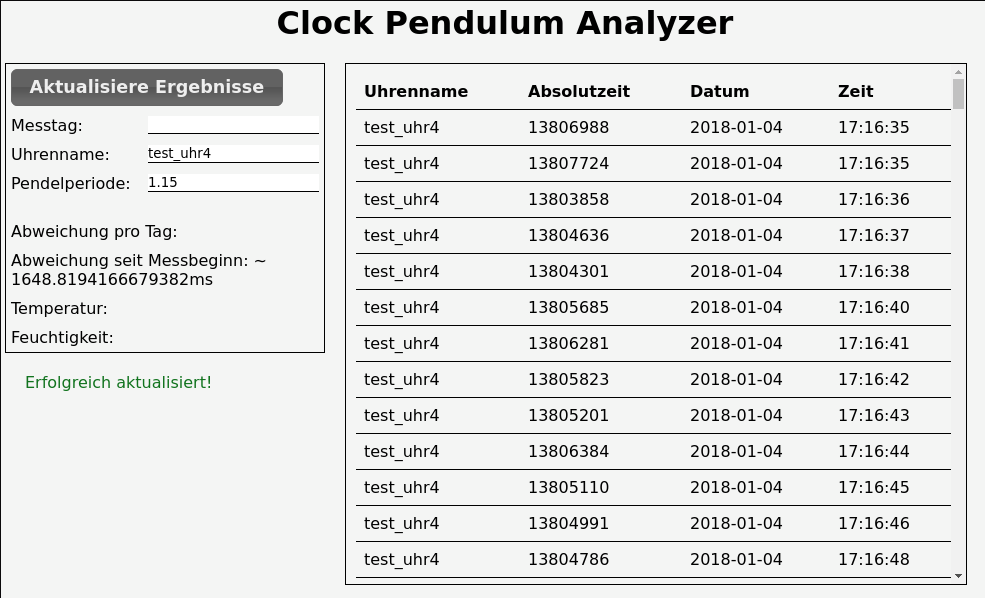
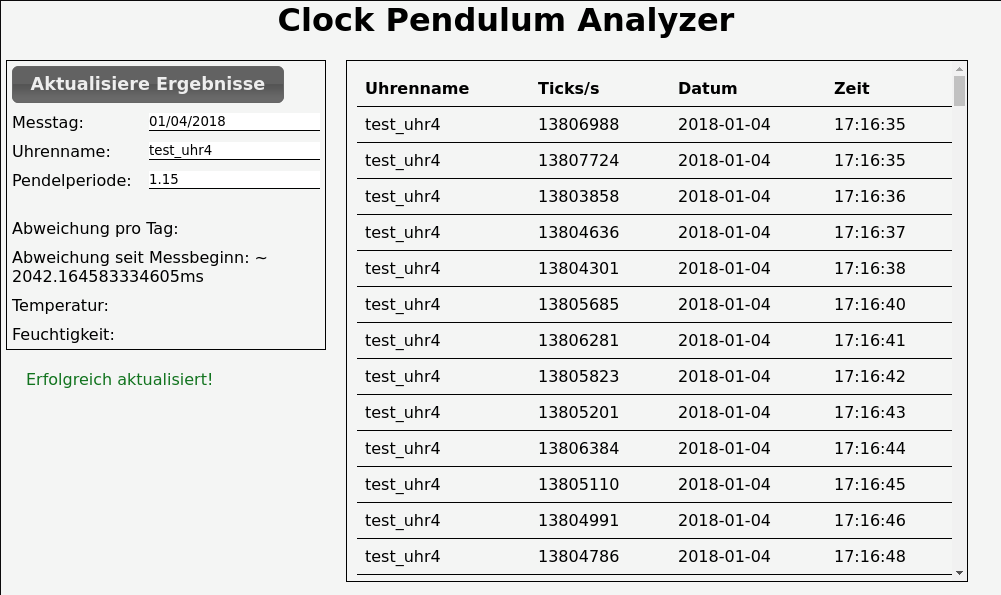
update table heading

Changed region(s): [[0.0, 0.0908, 1.0, 0.9681], [0.2741, 0.0, 0.7614, 0.0605]]

diff --git a/webclient/functions.js b/webclient/functions.js
@@ -29,7 +29,7 @@ function displayResponse(responseText)
 
     var headRow = $("<tr></tr>");
     headRow.append($("<th></th>").text("Uhrenname"));
-    headRow.append($("<th></th>").text("Absolutzeit"));
+    headRow.append($("<th></th>").text("Ticks/s"));
     headRow.append($("<th></th>").text("Datum"));
     headRow.append($("<th></th>").text("Zeit"));
     $("#table").append(headRow);
